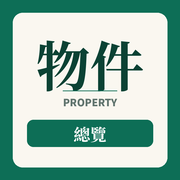
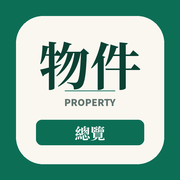
Add files via upload

Changed region(s): [[0.0556, 0.0556, 0.9444, 0.9444], [0.1944, 0.2222, 0.8056, 0.6111], [0.1389, 0.6389, 0.8611, 0.8333]]

diff --git a/index.html b/index.html
@@ -4,9 +4,9 @@
 <meta charset="UTF-8">
 <meta name="viewport" content="width=device-width, initial-scale=1.0">
 <title>物件總覽</title>
-<link rel="icon" type="image/png" href="icon-192.png?v=2">
-<link rel="apple-touch-icon" href="icon-180.png?v=2">
[1 lines of base64/hex data omitted]
+<link rel="icon" type="image/png" href="icon-192.png?v=3">
+<link rel="apple-touch-icon" href="icon-180.png?v=3">
[1 lines of base64/hex data omitted]
 <meta name="theme-color" content="#0F7A5F">
 <meta name="apple-mobile-web-app-capable" content="yes">
 <meta name="mobile-web-app-capable" content="yes">
@@ -950,7 +950,7 @@
 </div>
 
 <script>
-const APP_VERSION = "2026.07.04 n";
+const APP_VERSION = "2026.07.04 o";
 // ---- Seed data (示範資料;實際資料請用「設定→匯入備份檔」或雲端同步帶入) ----
 const SEED = [
   {name:"示範社區・A棟／3F", cat:"大樓", layout:"322", addr:"台中市西屯區示範路一段 100 號", floor:"3/14", price:1288, due:"[phone redacted]", agent:"王小明", tel:"[phone redacted]", store:"示範門市（範例資料）", url591:"", urlLeju:"", urlI:""},